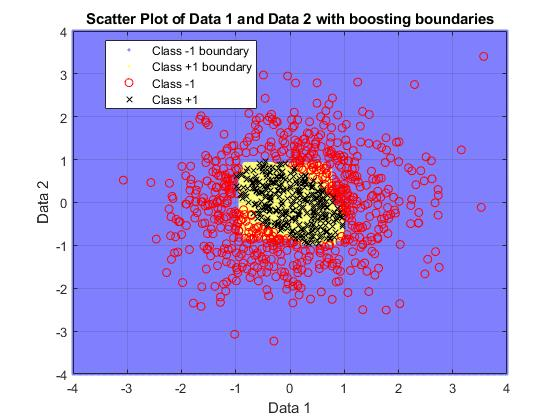
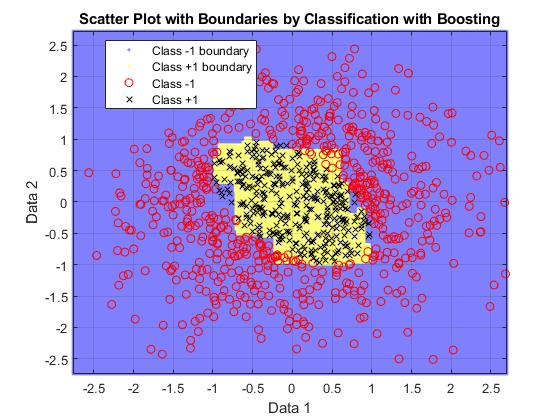
update

diff --git a/Exam_2/Q1.m b/Exam_2/Q1.m
@@ -110,7 +110,7 @@ for i = 1:level
     w = w .* exp(a .* inequality);    % compute un-normalized weights
     w = w / sum(w);                 % renormalize the weights
     
-    if any(w<=0)
+    if any(a<=0)
         w = initial_weight;
     end
 end
